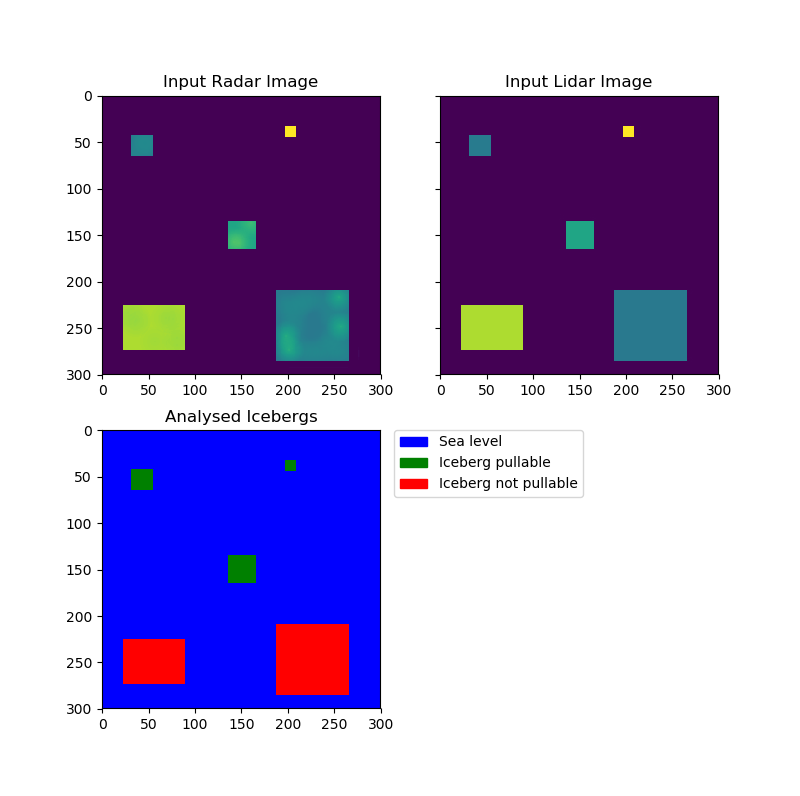
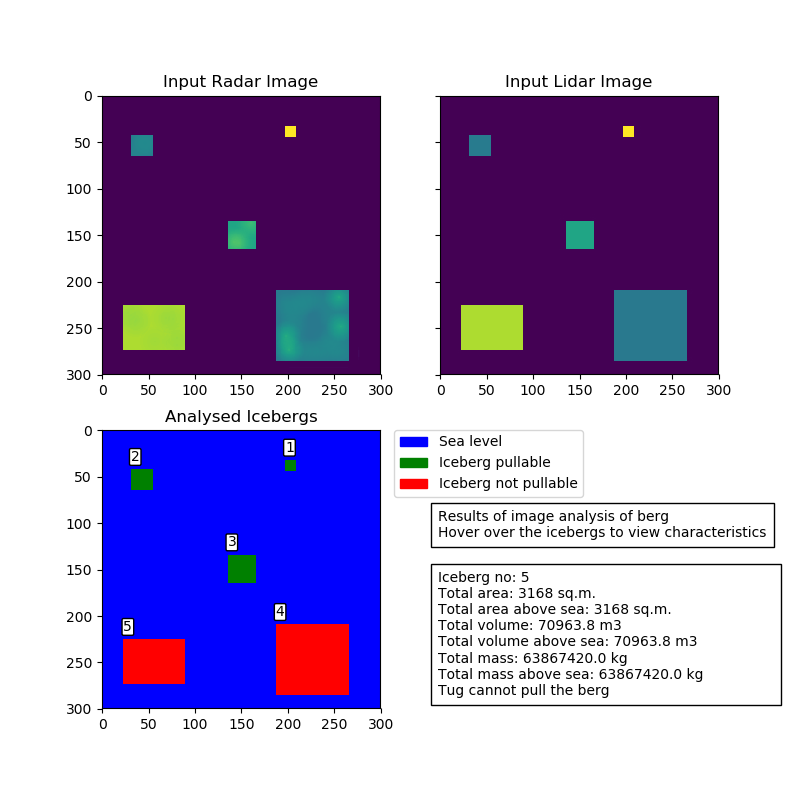
update

diff --git a/index.html b/index.html
@@ -1,0 +1,7 @@
+<HTML>
+<HEAD>
+</HEAD>
+<BODY>
+Hi, my name is Orkhan.
+</BODY>
+</HTML>

diff --git a/python/src/unpackaged/ice/Version2/ice_v2.py b/python/src/unpackaged/ice/Version2/ice_v2.py
@@ -1,24 +1,15 @@
 # -*- coding: utf-8 -*-
 """
+Last updated on Mar 29, 2019
+
+@author: Orkhan Hajiyev (gy17oh)
 
 Title: Assignment 2. Module GEOG5991M
        White Star Line Project
 
 Version: 2.0
-The version was built to analyse MULTIPLE iceberg images 
-       
-Link to Github: https://github.com/ohajiyev/Assignment2
-    
-Last updated on Mar 27, 2019
-
-@author: Orkhan Hajiyev (gy17oh)
-
-Python version: 3.7 (Python 3.7.1 64-bit | Qt 5.9.6 | PyQt5 5.9.2 | Windows 10)
-
-The code is written in Spyder Version 3.3.2
-
-!!! Important note: some part of the code may be copied and modified from 
-!!! https://docs.python.org/3/ as a reference
+The version was built to analyse MULTIPLE iceberg images.
+It is possible to use single iceberg images as an input to run the code
 
 The purpuse of the script is to implement the requirements of the 
 Assignment 2 of the Module GEOG5991M.
@@ -31,6 +22,17 @@ description. The link to the project's problem definition:
 Copyright (c) 2019 Orkhan Hajiyev
 Lisence under MIT License
 License link: https://github.com/ohajiyev/Assignment2/blob/master/LICENSE.md
+       
+Link to Github: https://github.com/ohajiyev/Assignment2
+
+Instructions to run the script is written in 
+    
+Python version: 3.7 (Python 3.7.1 64-bit | Qt 5.9.6 | PyQt5 5.9.2 | Windows 10)
+
+The code was written in Spyder Version 3.3.2
+
+!!! Important note: some part of the code may be copied and modified from 
+!!! different sources which are explitely shown in the comments below
 
 """
 
@@ -52,21 +54,46 @@ import icebergstructure
 #==============================================================================
 # Function definitions
 
+def update_result_text_plot(ax_result, icebergs, iceberg_number):
+    """
+    The method update the resultant plot area appropriately with the text
+    obtained from Iceberg object
+    
+    Arguments required:
+        ax_result - subplot area of the resultant text
+        icebergs - list of Iceberg objects
+        iceberg_number - the number of the Iceberg object
+    """
+    # clear resultant subplot area before showing the text
+    ax_result.clear()
+    
+    # title for the result 
+    text_result = 'Results of image analysis of berg'
+    text_result += '\nHover over the icebergs to view characteristics'
+    ax_result.text(0, 115, text_result, 
+                 bbox={'facecolor': 'white', 'pad': 5})
+    ax_result.text(0, 285, str(icebergs[iceberg_number-1]), 
+                 bbox={'facecolor': 'white', 'pad': 5})
+    # turn off the resultant subplot area to keep only text
+    ax_result.axis('off')
+    # refresh plot area
+    ax_result.figure.canvas.draw_idle()
+
 def on_hover(event, icebergs, ice_data, ax_result, ice_count):
+    """
+    The method identify the mouse location over analysed image plot area and
+    call update method of the resultant plot area appropriately
+    
+    The following code is altered from the source 
+    https://stackoverflow.com/questions/7908636/possible-to-make-labels-appear-
+    when-hovering-over-a-point-in-matplotlib
+    """
     if event.inaxes is not None:
         if event.inaxes.title.get_text() == 'Analysed Icebergs':
-            ice_data_value = ice_data[int(round(event.ydata))][
+            iceberg_number = ice_data[int(round(event.ydata))][
                     int(round(event.xdata))]
-            if ice_data_value in range (1, ice_count+1):
-                ax_result.clear()
-                text_result = 'Results of image analysis of berg'
-                text_result += '\nHover over the icebergs to view characteristics'
-                ax_result.text(0, 115, text_result, 
-                             bbox={'facecolor': 'white', 'pad': 5})
-                ax_result.text(0, 285, str(icebergs[ice_data_value-1]), 
-                             bbox={'facecolor': 'white', 'pad': 5})
-                ax_result.axis('off')
-                plt.gcf().canvas.draw_idle()
+            if iceberg_number in range (1, ice_count+1):
+                update_result_text_plot(ax_result, icebergs, iceberg_number)
     
 def draw_result_multiple(ice_data, icebergs, \
                          radar_data_texture, lidar_data_height):
@@ -97,15 +124,19 @@ def draw_result_multiple(ice_data, icebergs, \
     value_description = {0: 'Sea level', 1: 'Iceberg pullable', \
                          2: 'Iceberg not pullable',}
     
-    # Create two plot area, one for image visualisation and the second will
-    # be used for showing the result text
+    # Create 4 plot areas, first pair at the top for input images visualisation 
+    # and the second pair for analysed image and the result text
     fig, ax = plt.subplots(2, 2, figsize=(8,8), sharey=True)
     
+    # Visualisation of input images
+    #==========================================================================
     ax[0, 0].imshow(radar_data_texture)
     ax[0, 0].set_title('Input Radar Image')
     ax[0, 1].imshow(lidar_data_height)
     ax[0, 1].set_title('Input Lidar Image')
-        
+    
+    # Visualisation of analysed images
+    #==========================================================================
     # Make a color map of fixed colors, blue for the sea and grey for 
     # the iceberg
     cmap = colors.ListedColormap(['blue', 'green', 'red'])
@@ -129,21 +160,21 @@ def draw_result_multiple(ice_data, icebergs, \
     
     ax[1, 0].set_title('Analysed Icebergs')
     
-    text_result = 'Results of image analysis of berg'
-    text_result += '\nHover over the icebergs to view characteristics'
-    
-    ax[1, 1].text(0, 115, text_result, bbox={'facecolor': 'white', 'pad': 5})
-    
-    ax[1, 1].text(0, 285, str(icebergs[0]), bbox={'facecolor': 'white', 
-      'pad': 5})
-    
-    ax[1, 1].axis('off')
-    
+    # Anotate the bergs on the analysed image
+    #==========================================================================
     ice_count = len(icebergs)
+    for berg in icebergs:
+        ice_ind = np.where(ice_data == berg.ice_no)
+        ax[1, 0].annotate(str(berg.ice_no), xy=(ice_ind[1][0], 
+          ice_ind[0][0]-10), bbox=dict(boxstyle="round, pad=0.1", fc="w"))
+        
+    # Visualisation of the result text
+    #==========================================================================
+    update_result_text_plot(ax[1, 1], icebergs, 1)
     
-    plt.show()
-    
-    cid = fig.canvas.mpl_connect('motion_notify_event', lambda event: 
+    # Activation of hovering function to view result text of analysed bergs
+    #==========================================================================
+    fig.canvas.mpl_connect('motion_notify_event', lambda event: 
         on_hover(event, icebergs, ice_data, ax[1, 1], ice_count))
     
     plt.show()
@@ -217,51 +248,60 @@ def iceberg_identification(radar_data_texture):
 # End of Function definitions
 #==============================================================================
 
+def main():
+    #==========================================================================
+    # Create variables. 
+    
+    # empty list of data which contains texture of objects read from radar file 
+    radar_data_texture = []
+    # empty list of data which contains height of objects read from lidar file 
+    lidar_data_height = [] 
+    # empty list of Iceberg objects
+    icebergs = [] 
+    
+    # Uncommenting of single input images and commenting of multiple berg 
+    # images allow to test the code based on single iceberg images
+    # Define input file paths for single bergs
+    #lidar_data_file_path = 'input/white1.lidar'
+    #radar_data_file_path = 'input/white1.radar'
+    
+    # Define input file paths for multiple bergs
+    lidar_data_file_path = 'input/white2.lidar'
+    radar_data_file_path = 'input/white2.radar'
+    
+    # Define output file path
+    output_file_path = 'output/results.txt'
+    
+    # End of Create variables
+    #==========================================================================
+    
+    
+    # Main part of the code
+    #==========================================================================
+    
+    # Read input files and assign texture and height info to the variables
+    lidar_data_height = read_file(lidar_data_file_path)
+    radar_data_texture = read_file(radar_data_file_path)
+    
+    # Identify the mupltiple icebergs and count from the radar image
+    ice_data, ice_count = iceberg_identification(radar_data_texture)
+    
+    # Create the Iceberg objects from the input  image files
+    for ice_no in range(1, ice_count + 1):
+        icebergs.append(icebergstructure.Iceberg(ice_data, lidar_data_height,
+                                                 ice_no))
+    
+    # Draw input images and result (both image and text) in the canvas
+    # and activate hovering fucntion to view the resultant text of the 
+    # specific iceberg
+    draw_result_multiple(ice_data, icebergs, radar_data_texture, 
+                         lidar_data_height)
+    
+    # Write the results of the analysis to text file
+    write_file(output_file_path, icebergs)
+    
+    # End of Main part of the code
+    #==========================================================================
 
-#==============================================================================
-# Create variables. 
-
-radar_data_texture = [] # empty list of data which contains texture of objects
-                         # read from radar file   
-lidar_data_height = [] # empty list of data which contains height of objects
-                        # read from lidar file 
-icebergs = [] # empty list of Iceberg objects
-
-# Define input file paths for single bergs
-#lidar_data_file_path = 'input/white1.lidar'
-#radar_data_file_path = 'input/white1.radar'
-
-# Define input file paths for multiple bergs
-lidar_data_file_path = 'input/white2.lidar'
-radar_data_file_path = 'input/white2.radar'
-
-# Define output file path
-output_file_path = 'output/results.txt'
-
-# End of Create variables
-#==============================================================================
-
-
-# Main part of the code
-#==============================================================================
-
-# Read input files and assign texture and height info to the variables
-lidar_data_height = read_file(lidar_data_file_path)
-radar_data_texture = read_file(radar_data_file_path)
-
-# Identify the mupltiple icebergs from the radar image
-ice_data, ice_count = iceberg_identification(radar_data_texture)
-
-# Create the Iceberg object from the input  image files
-for ice_no in range(1, ice_count + 1):
-    icebergs.append(icebergstructure.Iceberg(ice_data, lidar_data_height, \
-                                             ice_no))
-
-# Draw result in the canvas
-draw_result_multiple(ice_data, icebergs, radar_data_texture, lidar_data_height)
-
-# Write the results of the analysis to text file
-write_file(output_file_path, icebergs)
-
-# End of Main part of the code
-#==============================================================================
+if __name__ == '__main__':
+    main()
